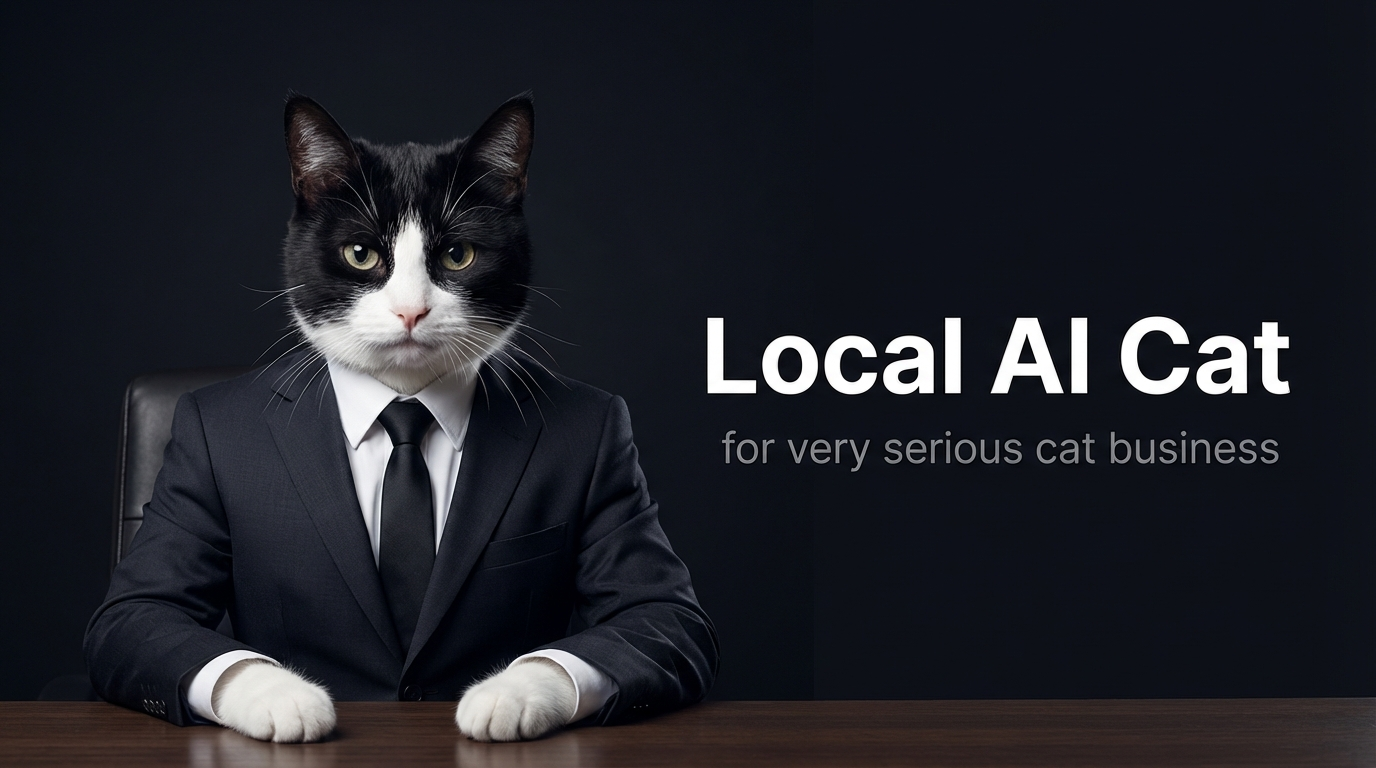
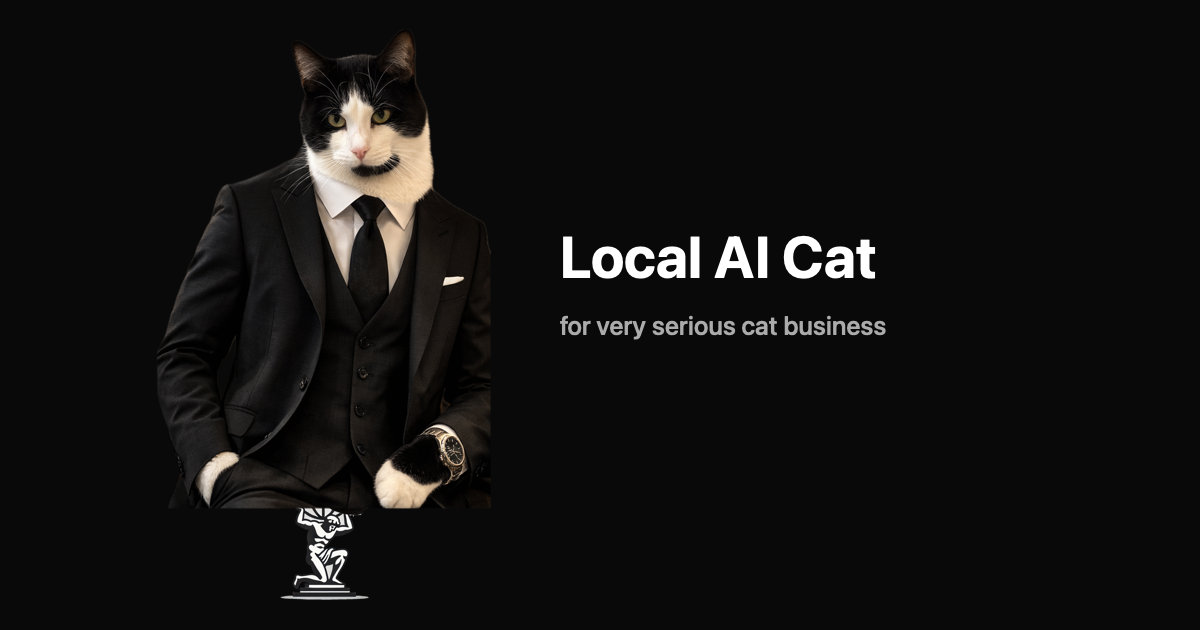
feat: custom OG share image with business cat branding
- 1200x630 OG image: business cat + Local AI Cat + tagline
- Wire up og-share.png for OpenGraph and Twitter cards
- Fix mobile tagline overflow

Changed region(s): [[0.0, 0.0603, 1.0, 1.0], [0.5242, 0.573, 0.925, 0.6032], [0.4008, 0.3317, 0.4317, 0.3619]]

diff --git a/app/layout.tsx b/app/layout.tsx
@@ -35,7 +35,7 @@ export const metadata: Metadata = {
       "Private, on-device AI chat and transcription for iPhone, iPad, and Mac. No cloud required.",
     url: getSiteUrl(),
     siteName: "Local AI Cat",
-    images: ["/assets/cat-business.png"],
+    images: [{ url: "/assets/og-share.png", width: 1200, height: 630 }],
     type: "website"
   },
   twitter: {
@@ -43,7 +43,7 @@ export const metadata: Metadata = {
     title: "Local AI Cat - Private On-Device AI",
     description:
       "Private, on-device AI chat and transcription for iPhone, iPad, and Mac. No cloud required.",
-    images: ["/assets/cat-business.png"]
+    images: [{ url: "/assets/og-share.png", width: 1200, height: 630 }]
   }
 };
 
